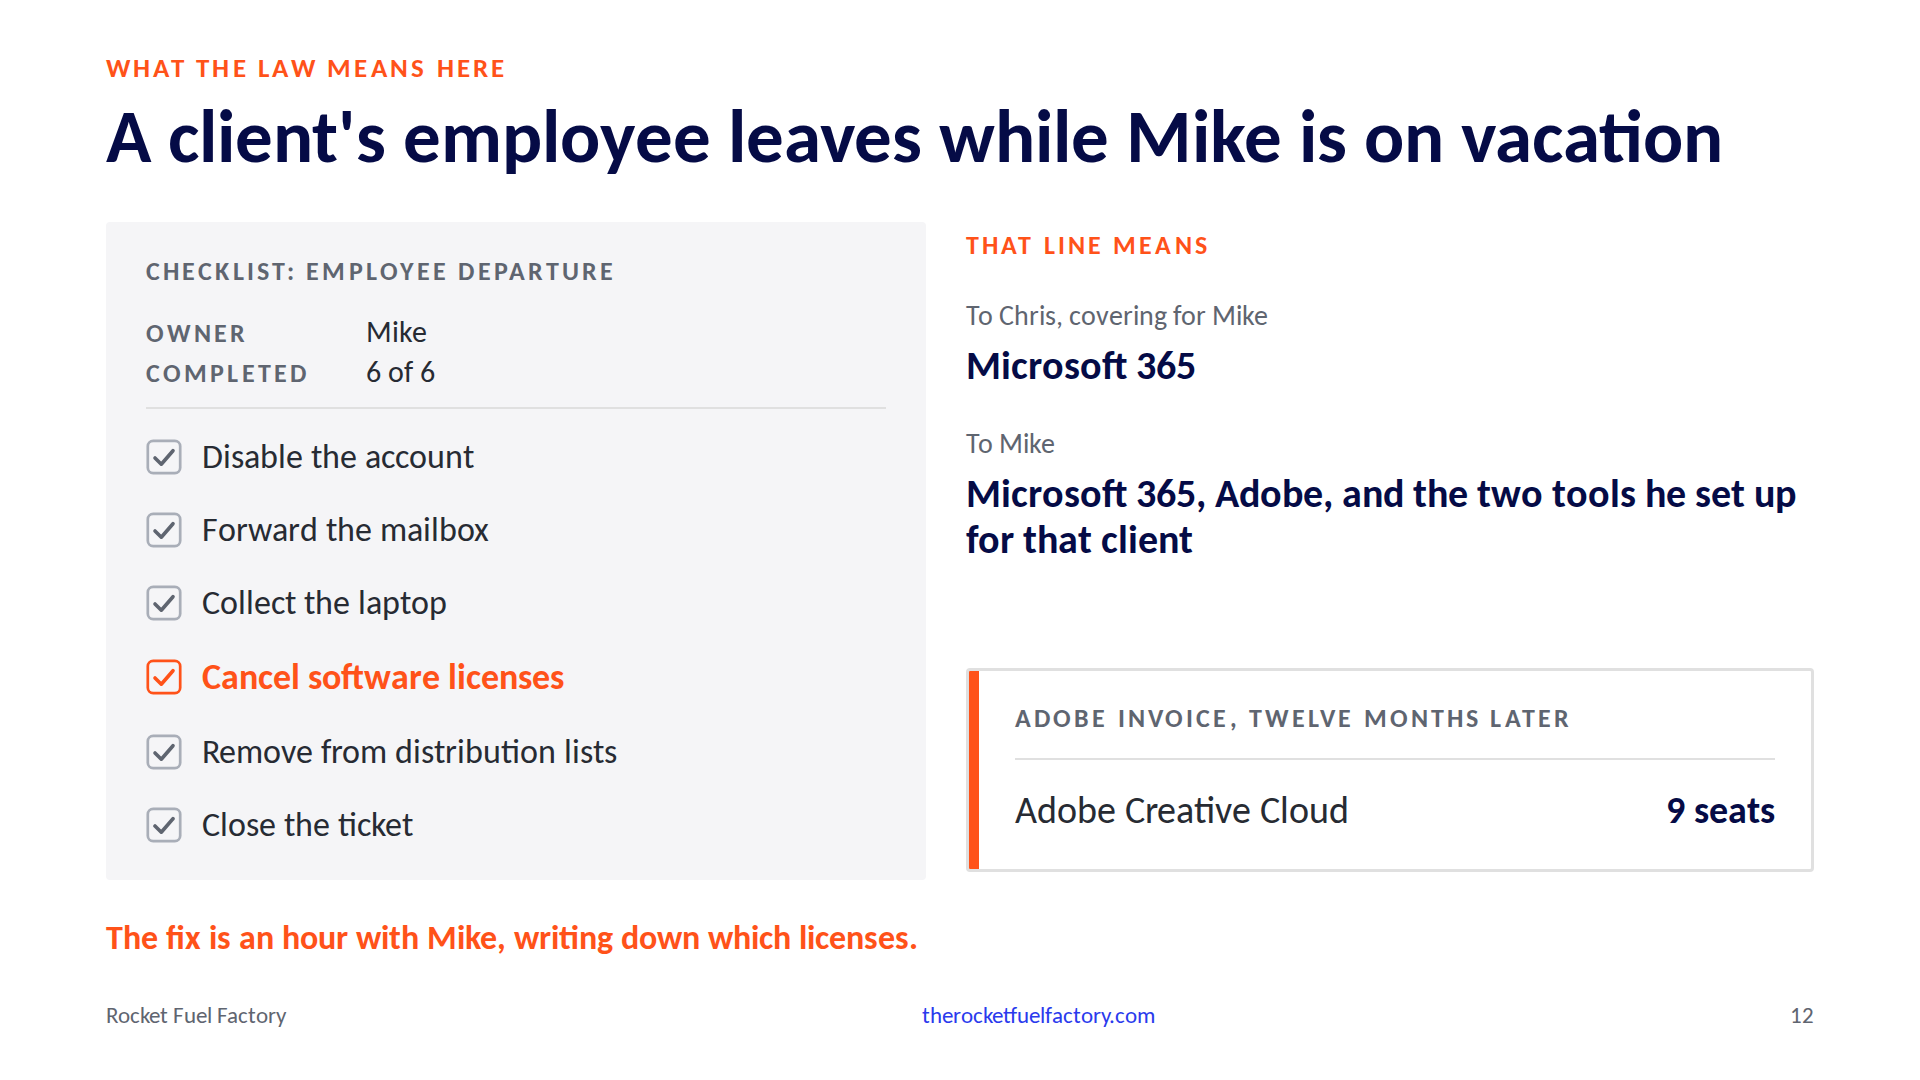
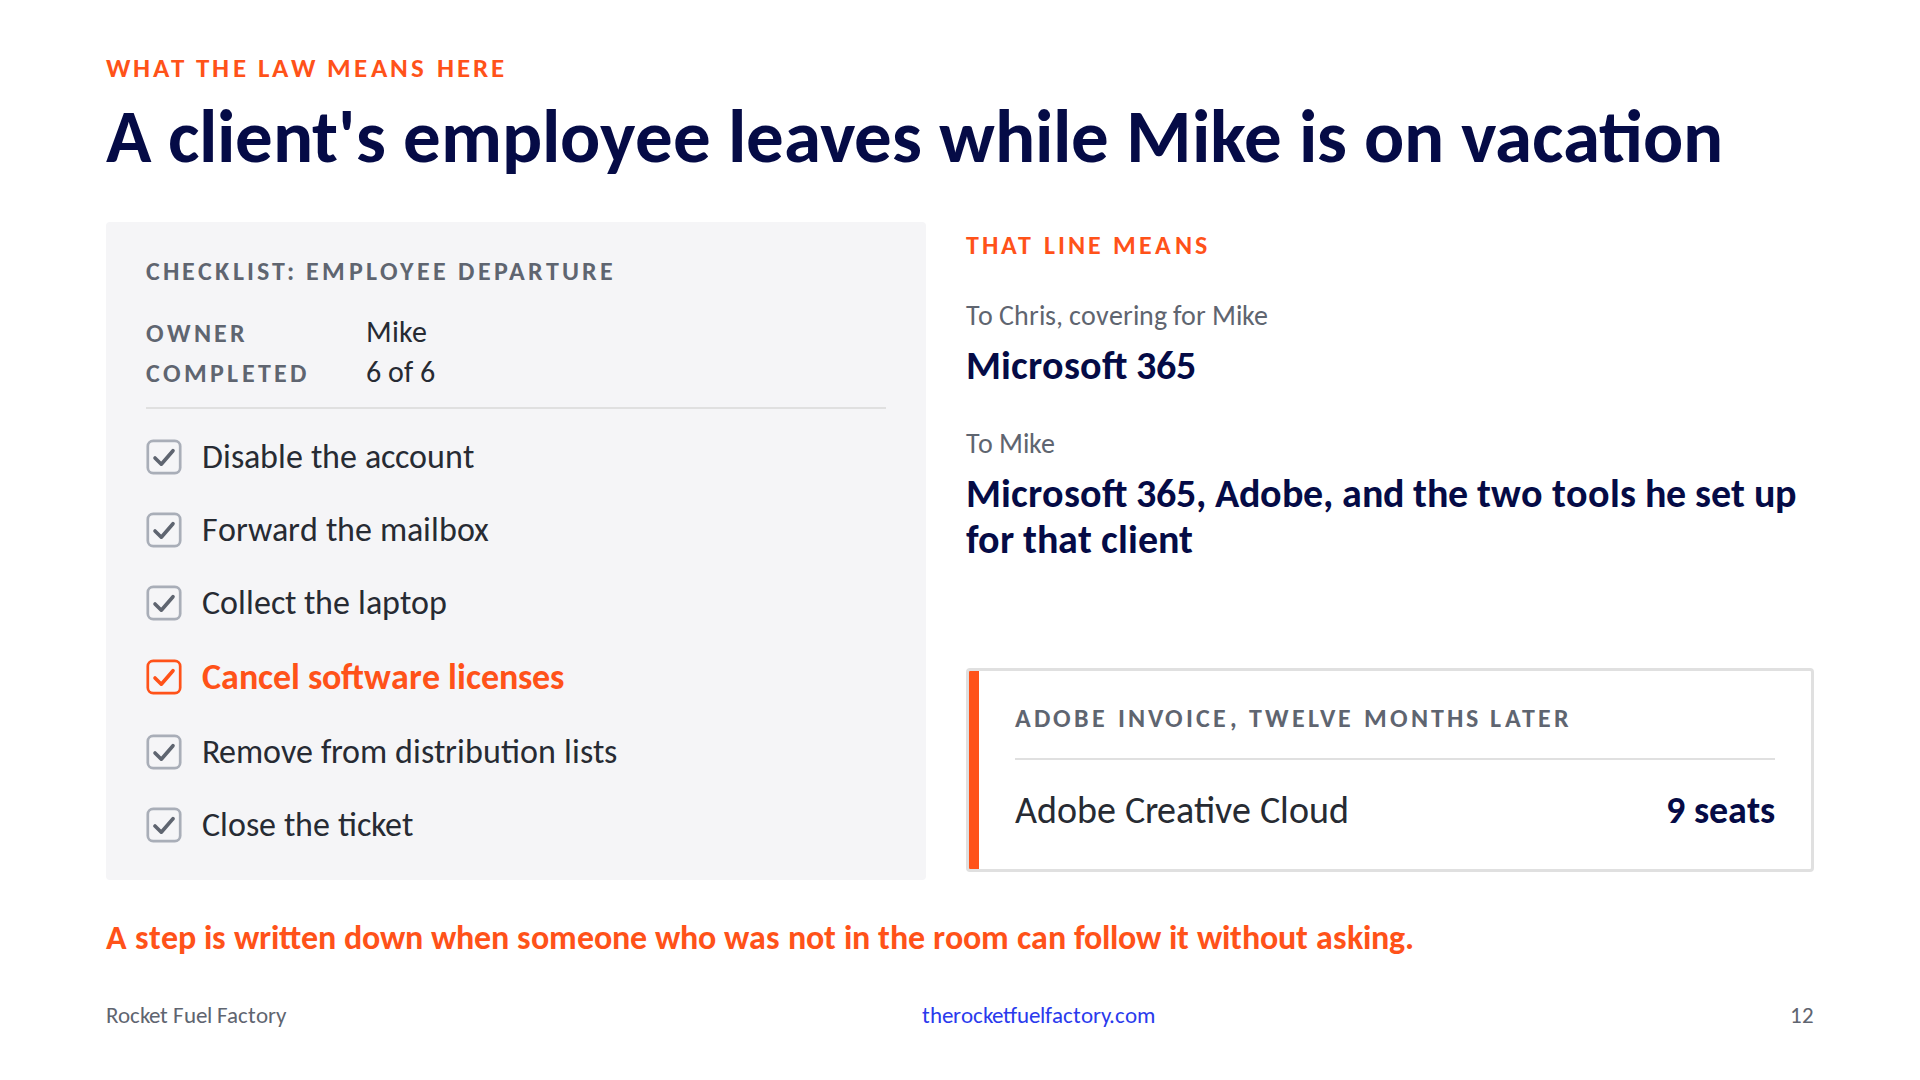
Slide 12: the test replaces the fix line; note and outline follow

Changed region(s): [[0.0312, 0.8556, 0.75, 0.8861]]

diff --git a/src/data/notes.js b/src/data/notes.js
@@ -15,7 +15,7 @@ export const notes = {
   'demo-strong': 'Target 9:20. Under 150 words. It names the dentist. Nothing in it that Dana should not see. Same tool, same ticket. The only thing we changed was what we told it. Now the part that matters. The machine never talked to Dana. I read this, I put my name on it, and I sent it. That is the job it is good for: the draft. The send is mine. And those five questions are not about email. Who is reading this, what does the vague phrase mean, which facts are liabilities, what tone, what are we actually asking for. That works on a person too. When we say we set up new users, what we have is a ticket with the facts, and the rules are in someone\'s head. You just saw what happens when we hand that to something that cannot guess.',
   'demo-ask': 'Target 6:30. Here is what worked. We did not type try again, and we did not fix the email ourselves. We asked it what we should have told it in the first place. It gave us five things. Who is actually reading this, and what is their relationship to the outage. What on top of it was supposed to mean. Whether the Q2 detail was a feature or a liability. What tone. Whether there was a business ask riding along. We knew the answer to every one of those before we typed a word. We just never wrote them down. And it owned the leak. It called the Q2 sentence the single riskiest line in the ticket, said it could read either as we caught this or as we knew and did nothing, and admitted it had made that call for us without asking. It knew it was guessing. It will tell you, if you ask. Try this tonight on the last answer that disappointed you.',
   'aharons-law': 'Target 10:40. SLOW. We built computers to be automation machines, and most of us are afraid to actually automate anything with them. I think this is why. Aharon Chernin, who I work with, puts it this way: you can\'t automate a process that doesn\'t exist. I have been quoting that for years and it means something different to me every time. Here is what it means to me today. Having a process is not the same as having someone who knows how it is done. Most of what we call a process is the second thing. The first time you try to automate it, you find out which one you have, because the machine cannot ask what you meant. That is worth an afternoon even if nothing ships. Here is the same thing happening to a checklist instead of an email.',
-  'exists-means-said-out-loud': 'Target 11:10. A client calls: one of their people is leaving on Friday. We have a checklist for that. It is a good one, six steps, and everyone follows it. Mike wrote it, and Mike is on vacation this week, so Chris covers for him and works down the list. One line says cancel software licenses, so Chris cancels Microsoft 365, ticks the box, and closes the ticket. Nothing looks wrong. A year later you reconcile the Adobe bill and find nine seats for people who no longer work there. Nobody skipped a step. To Mike, that line means Microsoft, Adobe, and the two tools he set up for that client, because he set them up. To Chris it means Microsoft. Same words, and the meaning lives in one person. This is the email again. On top of it meant something specific in one head and nothing specific anywhere else. Here is what that costs. Mike cannot take a vacation, because the process is him. Every departure gets handled twice, once wrong by Chris, once right by the expensive person. And the hire that covers for Mike is not for the work. It is insurance against a definition of done that lives in one person. The fix for that line is an hour. Sit down with Mike, ask him which licenses, and write it down. After that Chris can run it, and so can a machine. The problem is that it is one line on one list, and Mike owns forty lists like it. That is what doing more without adding bodies means: fewer people needed to make a process safe. It is true of any process that lives in one person, and it is why so many of us automate the wrong ones.',
+  'exists-means-said-out-loud': 'Target 11:10. A client calls: one of their people is leaving on Friday. We have a checklist for that. It is a good one, six steps, and everyone follows it. Mike wrote it, and Mike is on vacation this week, so Chris covers for him and works down the list. One line says cancel software licenses, so Chris cancels Microsoft 365, ticks the box, and closes the ticket. Nothing looks wrong. A year later you reconcile the Adobe bill and find nine seats for people who no longer work there. Nobody skipped a step. To Mike, that line means Microsoft, Adobe, and the two tools he set up for that client, because he set them up. To Chris it means Microsoft. Same words, and the meaning lives in one person. This is the email again. On top of it meant something specific in one head and nothing specific anywhere else. Here is what that costs. Mike cannot take a vacation, because the process is him. Every departure gets handled twice, once wrong by Chris, once right by the expensive person. And the hire that covers for Mike is not for the work. It is insurance against a definition of done that lives in one person. So here is the test I use. A step is written down when someone who was not in the room can follow it without asking. Chris was not in the room. That line failed the test, and nobody knew until the invoice. The fix for that line is an hour. Sit down with Mike, ask him which licenses, and write down what he says. After that Chris can run it without asking, and so can a machine. The problem is that it is one line on one list, and Mike owns forty lists like it. That is what doing more without adding bodies means: fewer people needed to make a process safe. It is true of any process that lives in one person, and it is why so many of us automate the wrong ones.',
   'the-wrong-things': 'Target 13:10. So the process is written down. Where do we point the machine? Here is what I keep seeing. The left column is what is being sold to MSPs right now, and it is being sold hard. An agent that answers the phone. An agent in the client\'s Teams. Password resets nobody touches. A quarterly review that writes itself. The right column is what I think we are actually buying. A phone that does not ring. A ticket that closes without a conversation. If I am honest, I think we buy these because deep down a lot of us do not like talking to customers, or we are a little afraid to. The call is the part of the day where something can go wrong in front of someone. Every one of those sounds like relief, and I get it. Here is the problem. The call you did not take is the call where you would have heard that Dana is shopping for a new MSP. The review meeting you skipped is the meeting where the next thing you sell them gets sold. Those conversations are the only part of this business a competitor cannot undercut on price. I am not saying the tools are bad. Some of them are very good at what they do. I am saying the aim is wrong. In the demo, the machine wrote the draft and I made the call to Dana. The machine never talked to her. That split is the whole point. The work that eats the day is on our side of the desk, reading one screen and typing into another, chasing the same approval, checking the same thing every morning. Nobody is going to miss doing that. Point the machine there, and spend the hours you get back in front of the customer. Once that work is written down, there are two very different machines that can take it, and the next three slides are about which one gets what.',
   'divider-where-ai-belongs': 'Target 15:10. Transition. Speed is what these machines give you unconditionally. It exposes bad instructions instantly and executes them instantly. Fast is only a gift once you have said what good looks like.',
   'deterministic-vs-probabilistic': 'Target 15:40. Line to land: you already run a probabilistic system, it is called a tech at 4pm on a Tuesday. Read both columns aloud.',

diff --git a/src/components/slides/012-ExistsMeansSaidOutLoud.jsx b/src/components/slides/012-ExistsMeansSaidOutLoud.jsx
@@ -101,9 +101,9 @@ export default function ExistsMeansSaidOutLoud({ slideNumber }) {
         </div>
       </div>
 
-      {/* The fix, Tim's words */}
+      {/* The test, which is what Aharon's law means here */}
       <p className="absolute text-[34px] font-bold text-rff-orange" style={{ left: 106, top: 912, width: 1708 }}>
-        The fix is an hour with Mike, writing down which licenses.
+        A step is written down when someone who was not in the room can follow it without asking.
       </p>
 
       {/* What the line meant */}

diff --git a/docs/OUTLINE.md b/docs/OUTLINE.md
@@ -47,7 +47,7 @@ Closing line: If you can't write the rule, you can't hire your way out of it eit
 10. A draft you can put your name on (full output, no label). Under 150 words, Dr. Patel named. Footer: those five questions work on any brief, to a person or a machine. Note makes the send step explicit: the machine never talked to Dana, I read it, put my name on it, and sent it; the draft is the machine's job, the send is mine. Opus (13 Sep): the old title, forwardable without edits, made the machine the author of record and read as permission to auto-send; the client email stays because the leak only lands when an outsider reads it. Bridge to Aharon: the five questions work on a person too; when we say we set up new users, the facts are in a ticket and the rules are in someone's head.
 
 11. Aharon's first law (pull statement). SLOW. You can't automate a process that doesn't exist. Aharon Chernin, Rewst. The meaning here: exists means has been said out loud. The law is not about the shop with no process; it is about the shop that thinks it has one and actually has a person who knows what the owner meant. The first automation attempt is the first receiver that cannot nod and fill in the blanks, which is why it is worth doing even if it never ships. Nothing failed; you found out cheaply. Then click to the Mike example, which is where the meaning lands on a shop instead of a prompt.
-12. A client's employee leaves while Mike is on vacation (orange). The scene, not the lesson, is the title. Drawn rather than told: the checklist the room already has, every box ticked, one line lit (cancel software licenses), two readings of that line (to whoever covers, Microsoft 365; to Mike, Microsoft 365, Adobe, and the two tools he set up for that client), and the thing that surfaces it, an invoice line a year later: Adobe Creative Cloud, 9 seats. Order matters: what happens first, the discovery a year on, then what Mike meant. No sentence states the lesson; the room gets it from the invoice. Cost and fix are spoken, not shown: Mike cannot take a vacation, every departure handled twice, one hour with Mike writing down which licenses. Title of the talk lives here: fewer people needed to make a process safe. Bridge out: true of any process that lives in one person, and why so many automate the wrong ones. Three alternative designs pending Tim's pick (docs/ALTERNATIVES.md).
+12. A client's employee leaves while Mike is on vacation (orange, B design adopted). The scene, not the lesson, is the title. Drawn: the ticked checklist (Owner Mike, 6 of 6), one line lit (cancel software licenses), two readings (to Chris covering for Mike, Microsoft 365; to Mike, Microsoft 365, Adobe, and the two tools he set up for that client), the Adobe invoice twelve months later, 9 seats. Orange line across the bottom is the principle, not the Mike fix: a step is written down when someone who was not in the room can follow it without asking. That is what "exists" means in the law, as a test an owner can apply Monday. The Mike fix (an hour, ask him which licenses; one line on one of forty lists) is spoken. Present tense throughout; everyone who acts is named (Mike, Chris, you).
 
 13. Most MSPs automate the wrong things (comparison, orange). Automating the customer away: ticket auto-replies, templated QBRs, kickoff calls nobody attends. Automating the automaton: reading one screen and typing into another, checking the same thing every morning, chasing the same approval. Line: automate to give time back to the customer, not to hide from them. Bridge: once the automaton work is written down, two machines can take it; the next three slides are which gets what.
 14. Divider: Where AI belongs (gold). Fast is only a gift once you have said what good looks like.
